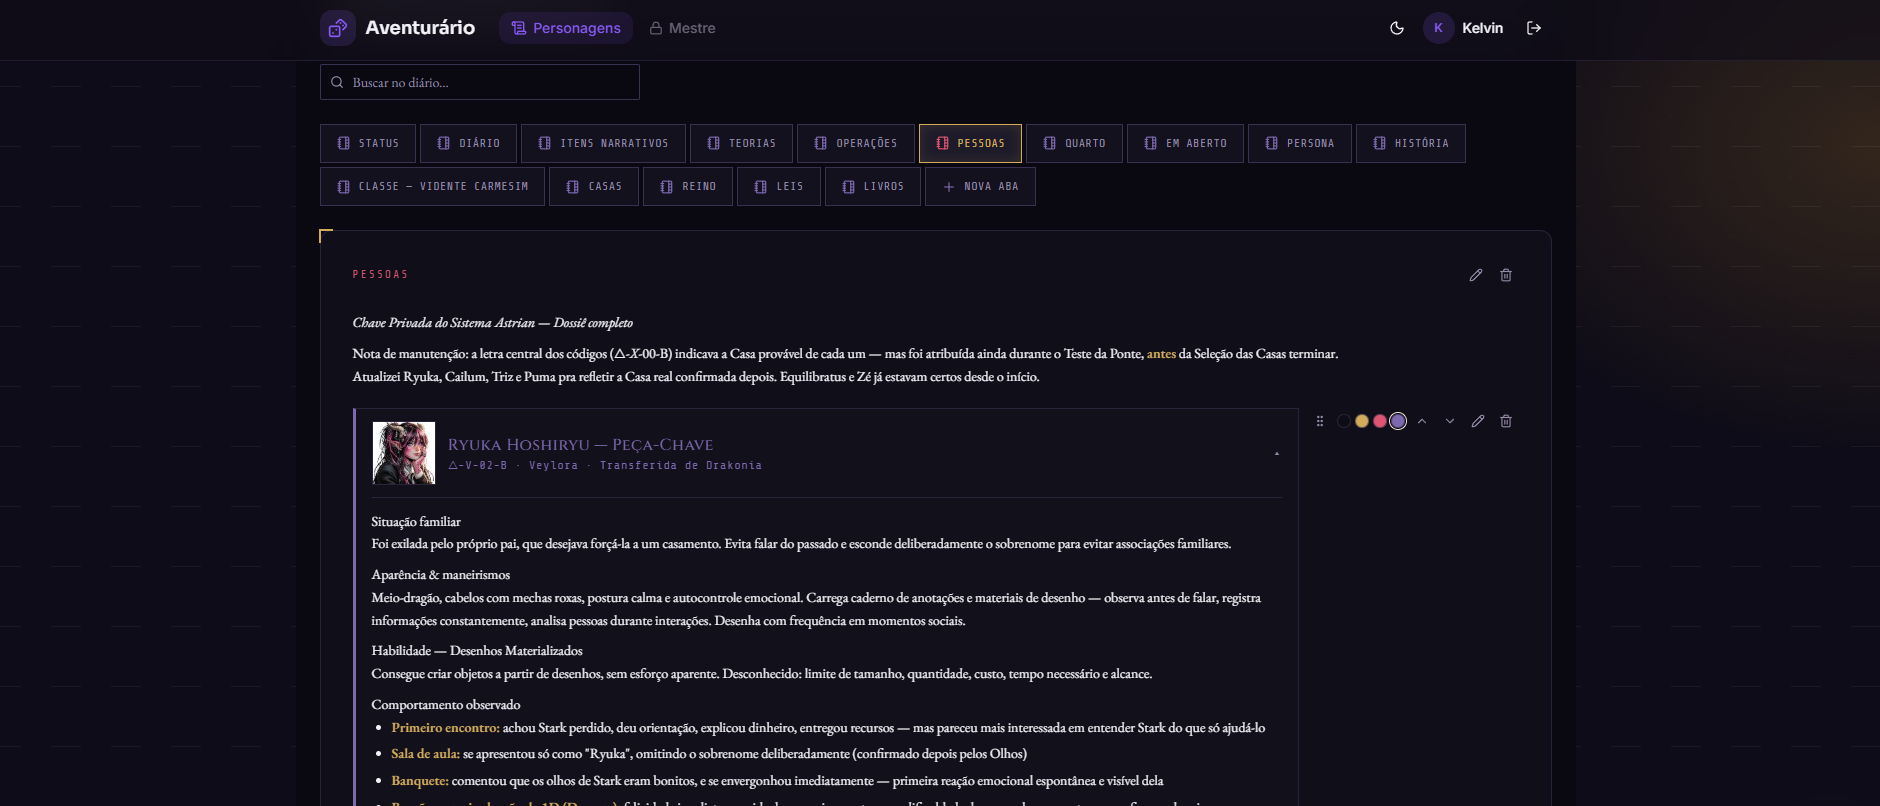
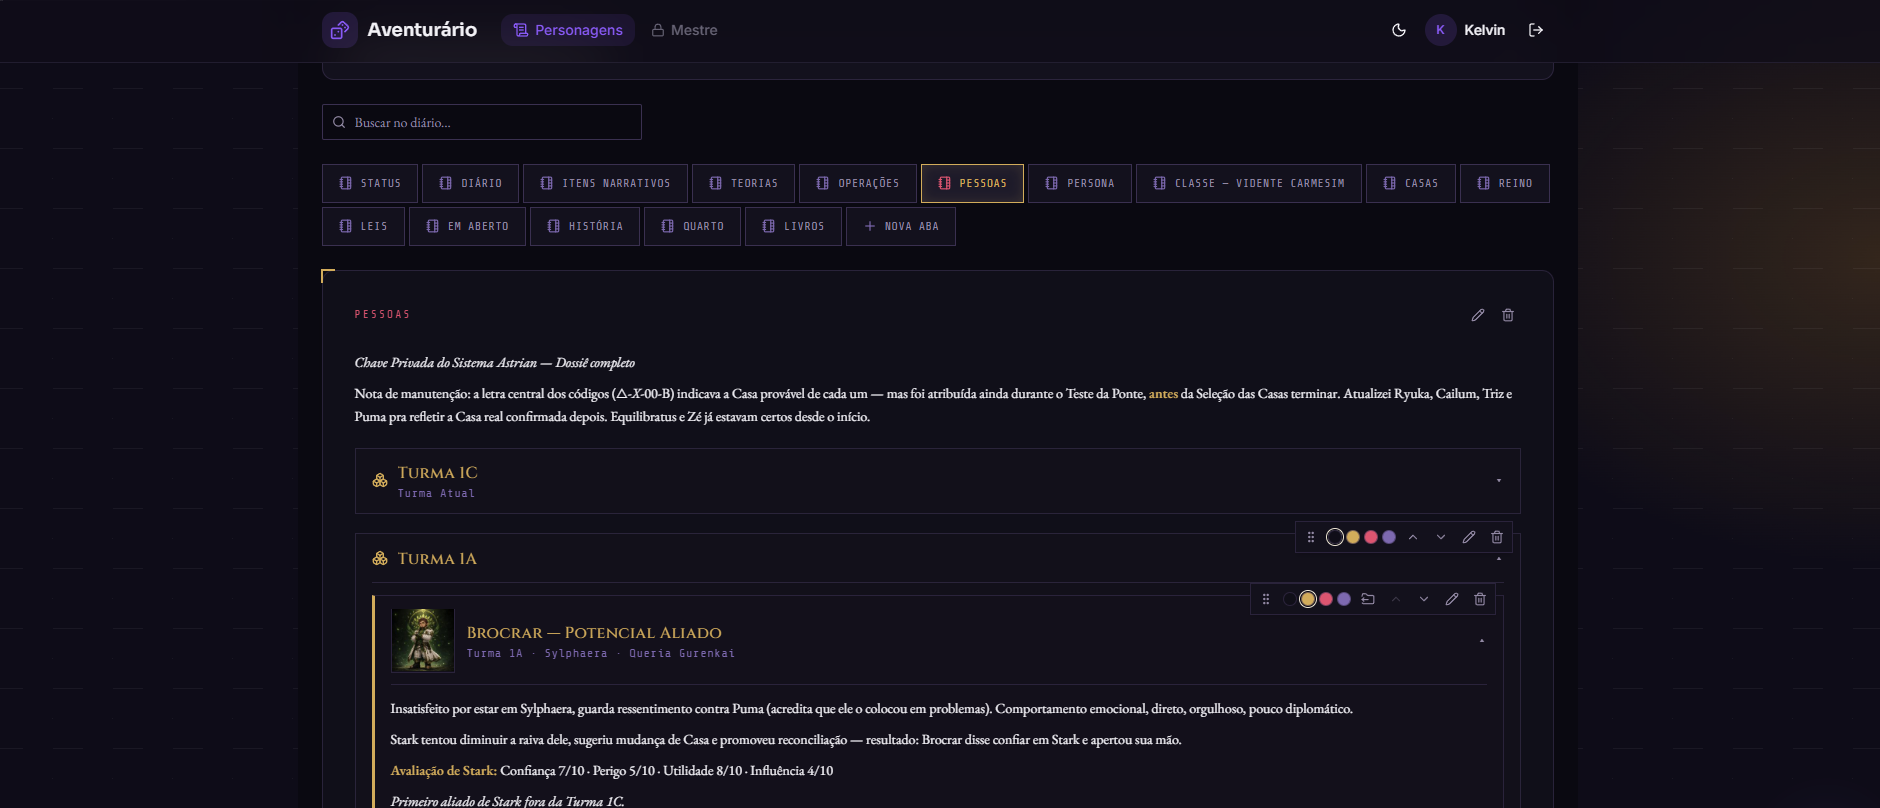
Add Davena section to the landing and refresh product screenshots
New landing section introducing Davena (art, chat bubble, 3-step flow),
mention her by name in the AI feature card and FAQ, and replace both
screenshots with newer app captures.

diff --git a/src/pages/landing-page.tsx b/src/pages/landing-page.tsx
@@ -7,11 +7,14 @@ import {
   Mail,
   Maximize2,
   Mic,
+  PenLine,
   Quote,
   ScrollText,
   Share2,
   Sparkles,
   Swords,
+  Undo2,
+  Wand2,
   X,
 } from "lucide-react";
 import { Link, Navigate } from "react-router";
@@ -30,7 +33,7 @@ const FEATURES: Array<{ icon: ReactNode; title: string; description: string }> =
     icon: <Sparkles className="size-5" />,
     title: "IA a favor da sua mesa",
     description:
-      "Transforme anotações soltas em registros estruturados, receba recaps da última sessão e uma retrospectiva ao encerrar a campanha.",
+      "A Davena transforma anotações soltas em registros estruturados na ficha — e você ainda recebe recaps da última sessão e uma retrospectiva ao encerrar a campanha.",
   },
   {
     icon: <Share2 className="size-5" />,
@@ -55,6 +58,28 @@ const FEATURES: Array<{ icon: ReactNode; title: string; description: string }> =
     title: "Exporte quando quiser",
     description:
       "Baixe o diário inteiro em Markdown. Seus dados são seus, sem amarras.",
+  },
+];
+
+// Espelha o fluxo real do NoteStructuringWidget (a Davena do app).
+const DAVENA_STEPS: Array<{ icon: ReactNode; title: string; description: string }> = [
+  {
+    icon: <PenLine className="size-4" />,
+    title: "Conte o que rolou",
+    description:
+      "Cole suas anotações soltas — ou dite por voz — do jeito que saírem, sem se preocupar com formato.",
+  },
+  {
+    icon: <Wand2 className="size-4" />,
+    title: "Ela organiza tudo",
+    description:
+      "A Davena entende o que é pessoa, teoria, item ou segredo e salva direto nas abas e blocos certos da ficha.",
+  },
+  {
+    icon: <Undo2 className="size-4" />,
+    title: "Você dá a palavra final",
+    description:
+      "Confira o que foi criado ou atualizado — e desfaça com um clique se algo não ficar do seu jeito.",
   },
 ];
 
@@ -108,7 +133,7 @@ const FAQ: Array<{ question: string; answer: string }> = [
   {
     question: "Preciso saber usar IA?",
     answer:
-      "Não. Os recursos de IA funcionam com um clique: transformam suas anotações soltas em registros estruturados e geram o recap da última sessão. Você não escreve prompt nenhum.",
+      "Não. A Davena, nossa assistente de anotações, funciona com um clique: você cola (ou dita) suas anotações soltas e ela organiza tudo nas abas e blocos da ficha — além do recap da última sessão. Você não escreve prompt nenhum.",
   },
   {
     question: "Funciona no celular e sem internet?",
@@ -293,6 +318,71 @@ export function LandingPage() {
                 </p>
               </div>
             ))}
+          </div>
+        </section>
+
+        {/* Davena, a assistente de anotações */}
+        <section className="flex flex-col items-center gap-8 pb-20">
+          <div className="flex flex-col items-center gap-2 text-center">
+            <h2 className="font-display text-2xl font-bold text-balance sm:text-3xl">
+              Conheça a Davena, a guardiã das suas anotações
+            </h2>
+            <p className="text-muted-foreground max-w-lg text-sm sm:text-base">
+              Anotar no calor da sessão é bagunçado — e tudo bem. Organizar depois é com
+              ela.
+            </p>
+          </div>
+          <div className="glass-panel grid w-full items-center gap-8 p-8 sm:grid-cols-[240px_1fr] sm:p-10">
+            <div className="flex flex-col items-center gap-3">
+              <img
+                src="/davena.png"
+                alt="Davena, a assistente de anotações do Aventurário"
+                loading="lazy"
+                className="w-44 max-w-full sm:w-56"
+              />
+              <div className="flex flex-col items-center gap-1 text-center">
+                <p className="font-display text-lg font-semibold">Davena</p>
+                <span className="text-primary inline-flex items-center gap-1.5 text-xs font-medium tracking-wide uppercase">
+                  <Sparkles aria-hidden className="size-3" />
+                  Guardiã de anotações
+                </span>
+              </div>
+            </div>
+            <div className="flex flex-col gap-6">
+              <div className="flex items-end gap-2">
+                <img
+                  src="/davena-avatar.png"
+                  alt=""
+                  className="size-8 shrink-0 rounded-full object-cover"
+                />
+                <p className="border-border/50 bg-muted/50 rounded-2xl rounded-bl-sm border px-3.5 py-2.5 text-sm">
+                  Me conta como foi a sessão! Cola (ou dita) suas anotações que eu organizo
+                  tudo na ficha. ✒
+                </p>
+              </div>
+              <ol className="flex flex-col gap-4">
+                {DAVENA_STEPS.map((step) => (
+                  <li key={step.title} className="flex items-start gap-3">
+                    <div
+                      aria-hidden
+                      className="bg-primary/10 text-primary flex size-9 shrink-0 items-center justify-center rounded-xl"
+                    >
+                      {step.icon}
+                    </div>
+                    <div className="flex flex-col gap-0.5">
+                      <h3 className="font-display text-base font-semibold">{step.title}</h3>
+                      <p className="text-muted-foreground text-sm leading-relaxed">
+                        {step.description}
+                      </p>
+                    </div>
+                  </li>
+                ))}
+              </ol>
+              <p className="text-muted-foreground text-xs">
+                Sem escrever prompt nenhum: é colar (ou ditar) e clicar em “Organizar com a
+                Davena”.
+              </p>
+            </div>
           </div>
         </section>
 
